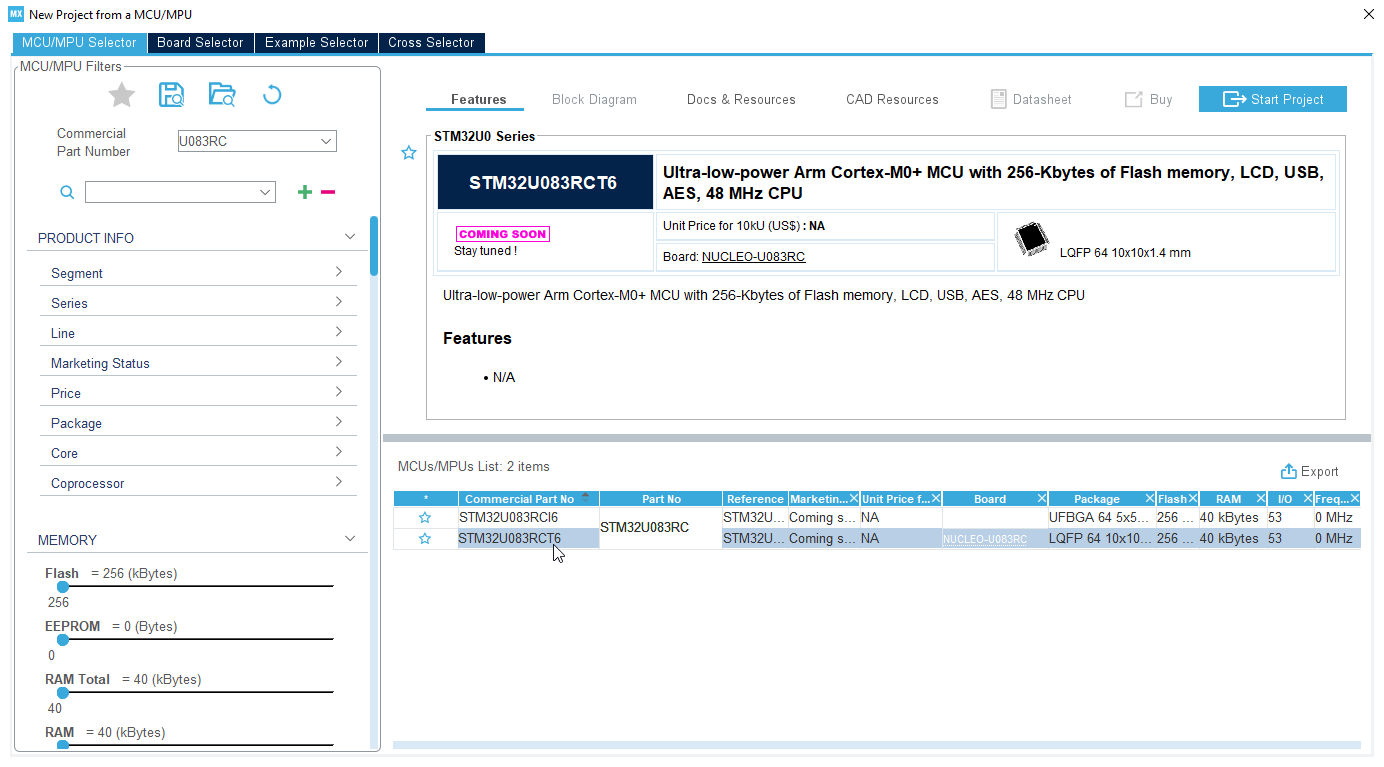
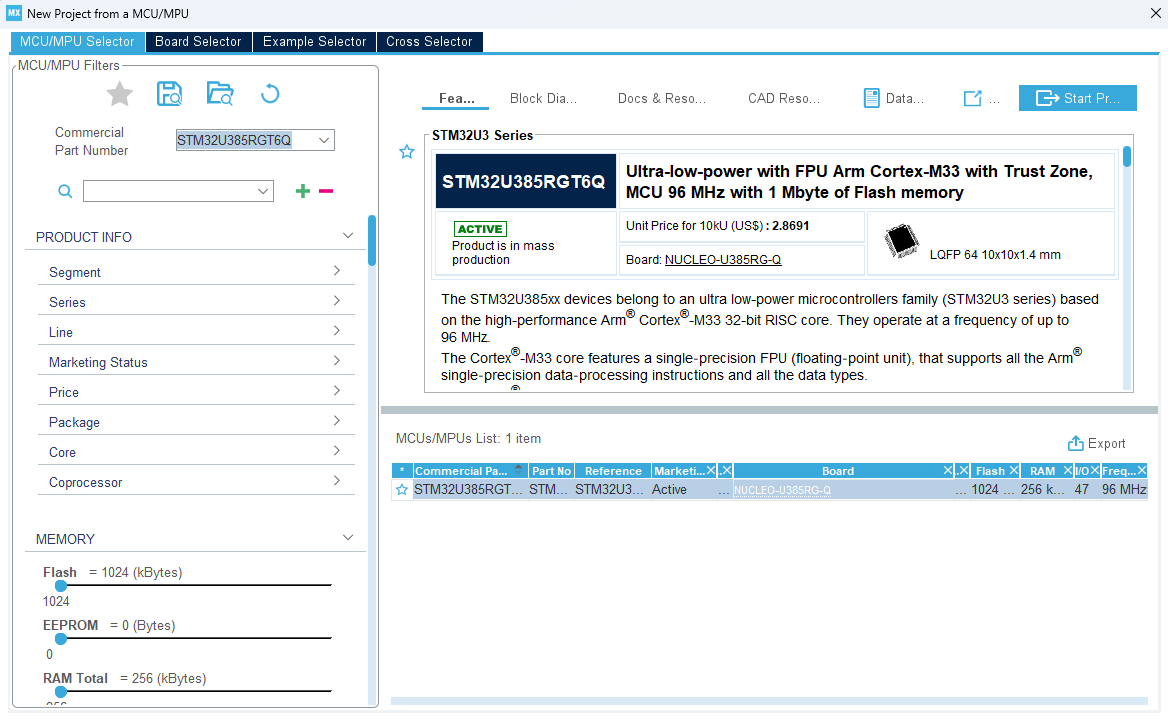
SPI cubeide update

diff --git a/spi/spi_cubeide.md b/spi/spi_cubeide.md
@@ -3,32 +3,28 @@ Presentation
 ----!
 
 # CubeIDE
-- Open **CubeIDE** and related `Stop 3` project
+- Open **CubeIDE** and related `SPI Autonomous mode` project
 
 ![image](./img/open_project.png)
 
-# Flash linker script
-In hands-on we disable data retention in almost all SRAMs except partial 8kB region in SRAM2. To avoid any HardFault error or random values founded in variables a correct memory allocation must be defined in *linker script STM32U385RGTXQ_FLASH.ld*.
+# Initialization
+## System Initialization
+Reset backup domain and RTC wakeup timer.
 
-- Define RAM memory region only for `SRAM2`
+Copy paste following snippet in `USER CODE BEGIN Init` section in **main.c** file:
 
 ```c
-MEMORY
-{
-  RAM    (xrw)    : ORIGIN = 0x20030000,   LENGTH = 8K
-  FLASH    (rx)    : ORIGIN = 0x08000000,   LENGTH = 1024K
-}
+/*Reset backup domain and RTC wakeup timer*/
+  __HAL_RCC_PWR_CLK_ENABLE();
+  HAL_PWR_EnableBkUpAccess();
+  __HAL_RCC_BACKUPRESET_FORCE();
+  while (__HAL_RCC_GET_FLAG(RCC_FLAG_LSERDY))
+		;
+  __HAL_RCC_BACKUPRESET_RELEASE();
 ```
-<p> </p>
-**Note** in standard application with wider use of power modes and peripheral you might need to place buffers and DMA handlers in dedicated SRAM2 section by using `attribute` 
 
-e.g. `uint32_t variable __attribute__((section(".sram2")));`
-
-
-# Initialization
-
-## System Initialization
-Enable SMPS as core regulator instead of LDO
+Enable SMPS as core regulator instead of LDO. 
+And disable clock of all unused peripherals under STOPx mode, reduce consumption due to presence of bus clock.
 
 Copy paste following snippet in `USER CODE BEGIN SysInit` section in **main.c** file:
 
@@ -38,52 +34,81 @@ Copy paste following snippet in `USER CODE BEGIN SysInit` section in **main.c** 
   {
 	  Error_Handler();
   }
+
+  /*Clock gating of all unused peripherals under STOPx mode, reduce consumption due to presence of bus clock*/
+  __HAL_RCC_GPIOA_CLK_STOP_DISABLE();
+  __HAL_RCC_GPIOC_CLK_STOP_DISABLE();
+  __HAL_RCC_SRAM2_CLK_STOP_DISABLE();
 ```
 
-## Configuration for STOPx mode
+Delete or comment `HAL_RTCEx_SetWakeUpTimer` called in `MX_RTC_Init()`.
+```c
+  /** Enable the WakeUp
+  */
+ // not here
+```
+
+# Application
+Prepare DMA transfers and buffers. Disable all interrupt from DMA to prevent wake up. 
+In real application this may differ or keep enabled DMA error flag at least.
+SPI communication will be triggered after 2s in STOP1 mode.
+
 Copy paste following snippet in `USER CODE BEGIN 2` section in **main.c** file:
 
 ```c
-/*Flash in power down mode during Stop mode - by default after reset */
-HAL_PWREx_DisableFlashFastWakeUp();
+/*Start the Full Duplex Communication process*/
+if (HAL_SPI_TransmitReceive_DMA(&hspi1, (uint8_t*) aTxBuffer,(uint8_t*) aRxBuffer, BUFFERSIZE) != HAL_OK) {
+  		/* Transfer error in transmission process */
+  Error_Handler();
+}
+  
+/*Disable all interrupt to prevent wakeup from STOP mode after DMA transfer*/
+__HAL_DMA_DISABLE_IT(&handle_GPDMA1_Channel7, (DMA_IT_TC | DMA_IT_HT | DMA_IT_DTE | DMA_IT_ULE | DMA_IT_USE | DMA_IT_TO));
+__HAL_DMA_DISABLE_IT(&handle_GPDMA1_Channel6, (DMA_IT_TC | DMA_IT_HT | DMA_IT_DTE | DMA_IT_ULE | DMA_IT_USE | DMA_IT_TO));
 
-/*Reduce SRAM2 retention in Stop mode to 8 kB*/
-HAL_PWREx_DisableRAMsContentStopRetention(PWR_SRAM2_PAGE2_STOP_RETENTION); // reduction -600nA
-HAL_PWREx_DisableRAMsContentStopRetention(PWR_SRAM2_PAGE3_STOP_RETENTION);
-HAL_PWREx_DisableRAMsContentStopRetention(PWR_FDCAN_USB_STOP_RETENTION);
-HAL_PWREx_DisableRAMsContentStopRetention(PWR_PKA_STOP_RETENTION);
-
-/*Put full SRAM1 in power down mode*/
-HAL_PWREx_EnableRAMsPowerDown(PWR_SRAM1_POWERDOWN); // reduction - 500nA
-
-/* Configure RTC wake up source for STop3 mode - RM Table 78. PWR wake-up source selection IN*/
-HAL_PWR_EnableWakeUpLine(PWR_WAKEUP_LINE7, PWR_WAKEUP_SELECT_3, PWR_WAKEUP_POLARITY_HIGH);
+/*for show-case transfer data after 2s in STOP mode*/
+if (HAL_RTCEx_SetWakeUpTimer(&hrtc, 1, RTC_WAKEUPCLOCK_CK_SPRE_16BITS) != HAL_OK)
+{
+  Error_Handler();
+}
+  
+/*SPI in autonomous mode operated down to STOP1 mode*/
+HAL_PWR_EnterSTOPMode(PWR_LOWPOWERMODE_STOP1, PWR_STOPENTRY_WFI);
 ```
 
-# STOPx mode
-Enter in Stop3 mode by **__WFI()** instruction, clear all pending flags verify consumption and periodic wakeup sequence. Perform power on reset if target consumption is not achieved.
+# Check functionality
 
-Copy paste following snippet in `while(1) loop` section in **main.c** file:
+## buffer received??
+Now data are transferred. Verify them by user button push connected to exti line and interrupt wakes uo device from STOP1 mode.
+Called fucntion in exti callback compare known transmit buffer with received one. If all bytes matches USER LED switches on.
 
+Copy paste following snippet in `USER CODE BEGIN 0` section in **main.c** file:
 ```c
-/*Clear all wakeup source flags*/
-__HAL_PWR_CLEAR_FLAG(PWR_WAKEUP_ALL_FLAG);
+static uint16_t Buffercmp(uint8_t *pBuffer1, uint8_t *pBuffer2,
+		uint16_t BufferLength) {
+	while (BufferLength--) {
+		if ((*pBuffer1) != *pBuffer2) {
+			return BufferLength;
+		}
+		pBuffer1++;
+		pBuffer2++;
+	}
 
-/* Enter STOP 3 mode */
-HAL_PWR_EnterSTOPMode(PWR_LOWPOWERMODE_STOP3, PWR_STOPENTRY_WFI);
+	return 0;
+}
+
+void HAL_GPIO_EXTI_Rising_Callback(uint16_t GPIO_Pin)
+{
+	/*Compare the sent and received buffers*/
+	if (Buffercmp((uint8_t*) aTxBuffer, (uint8_t*) aRxBuffer, BUFFERSIZE) == 0) {
+		/* RX Buffer OK */
+		HAL_GPIO_TogglePin(GPIOA, GPIO_PIN_5);
+	}
+}
 ```
 
-## Debug in STOPx mode
-In case when debug in LP modes is required. Due to fact bus is clocked the internal SysTick must be suspend - 1 ms interrupt would cause exit from Stop mode.
+##Consumption
 
-Copy paste following snippet in `while(1) loop` section in **main.c** file:
+Expected consumption under STOP1 mode ** ~65 uA** when all SRAMs retained. During SPI data transfer there is current peaks with average consumption ** ~400 uA**.
 
-```c
-HAL_SuspendTick();
-/*Clear all wakeup source flags*/
-__HAL_PWR_CLEAR_FLAG(PWR_WAKEUP_ALL_FLAG);
-
-/* Enter STOP 3 mode */
-HAL_PWR_EnterSTOPMode(PWR_LOWPOWERMODE_STOP3, PWR_STOPENTRY_WFI);
-HAL_ResumeTick();
-```
+![image](./img/consumption.png)

diff --git a/lptim/lptim_project.md b/lptim/lptim_project.md
@@ -1,25 +1,13 @@
 ----!
 Presentation
 ----!
+
 # Open CubeMx or CubeMX plugin in CubeIDE
+Press **Access to MCU selector**
+<p> </p>
+![gif](./img/mcu_select.gif)
 
-<ainfo> 
-To avoid any IO LCD assignment configuration issue. Let open project related to **STM320U83C-DK** board where LCD pins are already assigned.
-</ainfo>
-
+# Select STM2U385RGT6 and Start Project
 <p> </p>
 
-Press **Access to BOARD SELECTOR**
-<p> </p>
-![gif](./img/board_select.png)
-
-# Select STM320U83C-DK and Start Project
-<p> </p>
-
-![image](./img/DK_project.png)
-
-# Initialize all peripherals
-- click **YES**
-<p> </p>
-
-![image](./img/default_mode.png)
+![image](./img/NU_project.png)

diff --git a/lpuart/lpuart_project.md b/lpuart/lpuart_project.md
@@ -7,7 +7,7 @@ Press **Access to MCU selector**
 <p> </p>
 ![gif](./img/mcu_select.gif)
 
-# Select STM2U83RCT6 and Start Project
+# Select STM2U385RGT6 and Start Project
 <p> </p>
 
 ![image](./img/NU_project.png)

diff --git a/spi/spi_project.md b/spi/spi_project.md
@@ -7,7 +7,7 @@ Press **Access to MCU selector**
 <p> </p>
 ![gif](./img/mcu_select.gif)
 
-# Select STM2U83RCT6 and Start Project
+# Select STM2U385RGT6 and Start Project
 <p> </p>
 
 ![image](./img/NU_project.png)

diff --git a/stop3/stop3_project.md b/stop3/stop3_project.md
@@ -7,7 +7,7 @@ Press **Access to MCU selector**
 <p> </p>
 ![gif](./img/mcu_select.gif)
 
-# Select STM2U83RCT6 and Start Project
+# Select STM2U385RGT6 and Start Project
 <p> </p>
 
 ![image](./img/NU_project.png)
